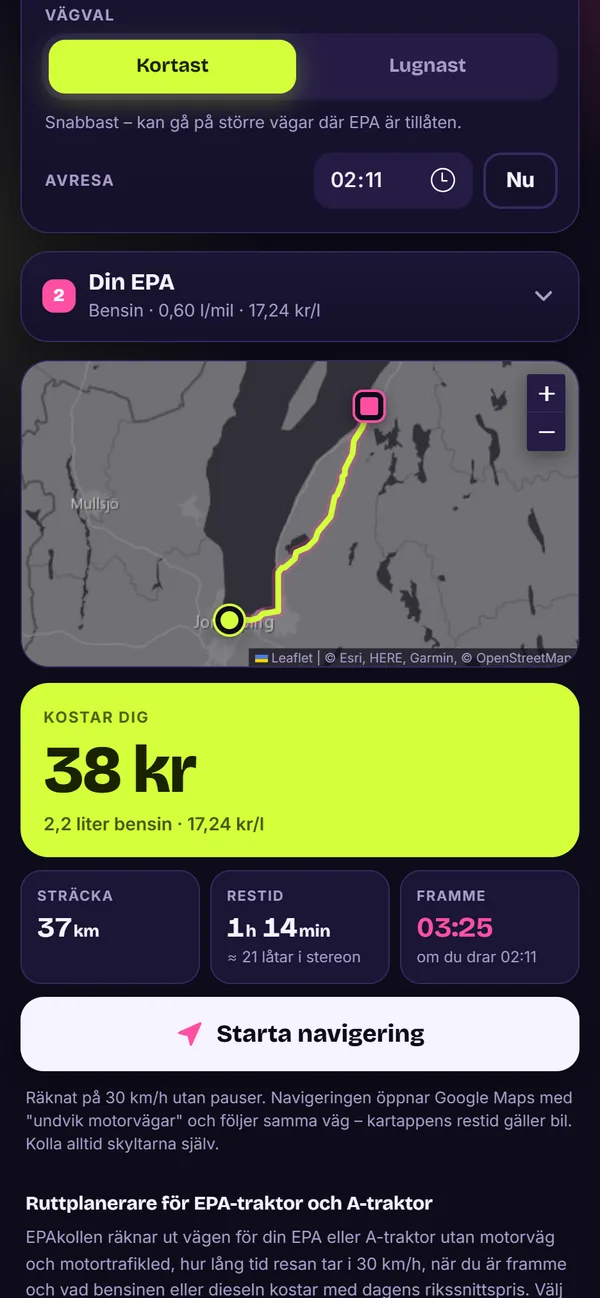
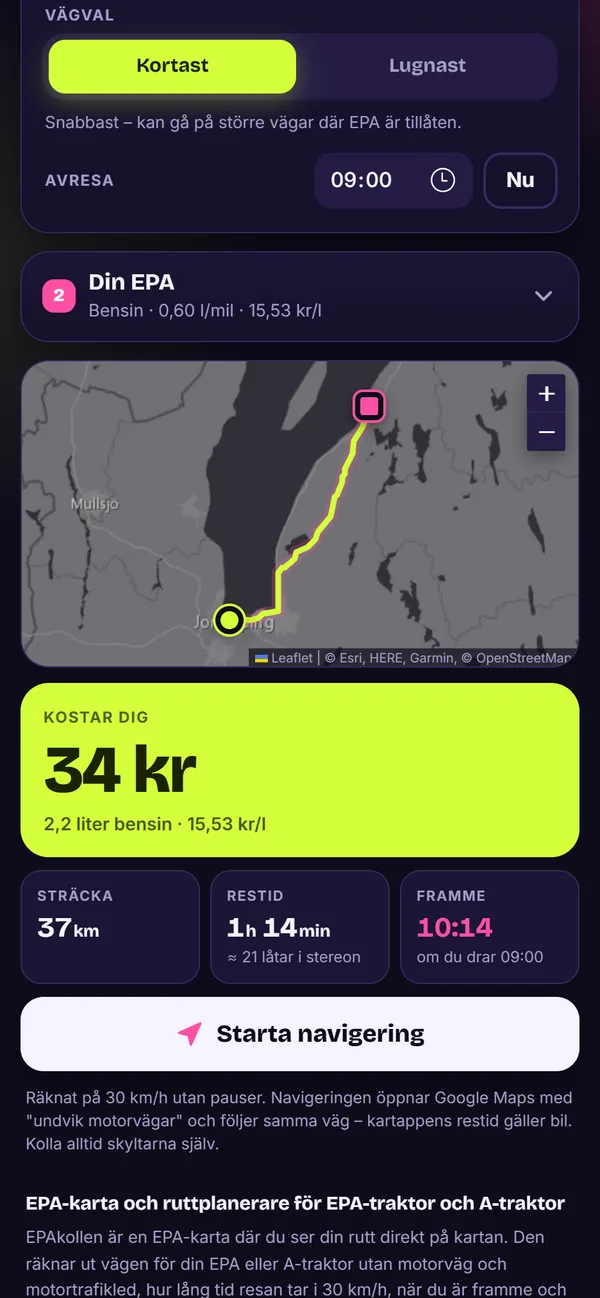
Nya skärmdumpar av alla fyra sajter och ny delningsbild, skript för att återskapa bilderna

diff --git a/public/index.html b/public/index.html
@@ -20,7 +20,7 @@
 <meta property="og:url" content="https://junestaden.se/">
 <meta property="og:title" content="Junestaden – webbverktyg för bygg och vardag">
 <meta property="og:description" content="Nordrange, Formelkollen, Mängdkollen och EPAkollen – gratis webbverktyg för elbilsresor, VVS-formler, materialåtgång och EPA-resor. Utan inloggning, i mobilen och på datorn.">
-<meta property="og:image" content="https://junestaden.se/img/og.jpg?v=8">
+<meta property="og:image" content="https://junestaden.se/img/og.jpg?v=9">
 <meta property="og:image:width" content="1200">
 <meta property="og:image:height" content="630">
 <meta name="twitter:card" content="summary_large_image">

diff --git a/design/skarmdumpar.py b/design/skarmdumpar.py
@@ -1,0 +1,196 @@
+"""Återskapar startsidans telefonbilder (public/img/*.webp) och delningsbilderna (og.jpg, og-om.jpg).
+
+Körning (från mappen Junestaden):
+    python design/skarmdumpar.py nordrange            en bild
+    python design/skarmdumpar.py alla                 alla fyra telefonbilder + båda delningsbilderna
+    python design/skarmdumpar.py og og-om             bara delningsbilderna
+    python design/skarmdumpar.py epa --skriv          skriv direkt till public/img/ (annars till design/_ut/)
+
+Krav: Python 3.10+, `pip install playwright pillow`, och Microsoft Edge installerat
+(Playwright startas med channel="msedge", så ingen separat webbläsare behöver hämtas).
+
+Skripten går mot de LIVE-sajterna (https://nordrange.se, epa.junestaden.se, bygg.junestaden.se,
+vvs.junestaden.se), så internet krävs. Delningsbilderna ritas från design/og.html och design/og-om.html,
+som i sin tur läser bilderna i public/img/. Kör därför först telefonbilderna och sedan delningsbilderna.
+
+Bildformat (se INSTRUKTIONER.md): telefonbilder 600 x 1298 WebP (kvalitet 82), delningsbilder 1200 x 630 JPG (kvalitet 92).
+Bara övre ~65 % av varje telefonbild syns på startsidans kort, så det viktiga ska ligga högt upp.
+Höj ?v= på og:image i public/index.html respektive public/om.html när en delningsbild byts.
+"""
+import asyncio
+import os
+import sys
+from pathlib import Path
+
+from PIL import Image
+from playwright.async_api import async_playwright
+
+ROOT = Path(__file__).resolve().parent.parent
+UT_TEST = ROOT / "design" / "_ut"
+IMG = ROOT / "public" / "img"
+# Döljer "Installera som app"-rutor så att de inte hamnar på bilderna
+HIDE = "[class*=install],[id*=install],.toast,.sheet{display:none!important}"
+W, H = 600, 1298  # telefonbildens slutstorlek (förhållande 390 x 844)
+
+
+async def gå_till(sida, url, försök=8):
+    """Går till en adress. Ibland ger namnuppslag ett tillfälligt fel (Portmaster), så prova några gånger."""
+    for _ in range(försök):
+        try:
+            await sida.goto(url, wait_until="networkidle", timeout=30000)
+            return
+        except Exception:
+            await asyncio.sleep(2)
+    raise SystemExit("Kunde inte nå " + url)
+
+
+async def ny_telefon(webbläsare, bredd, höjd):
+    ctx = await webbläsare.new_context(
+        viewport={"width": bredd, "height": höjd}, device_scale_factor=2, is_mobile=True,
+        has_touch=True, locale="sv-SE", color_scheme="dark")
+    return ctx, await ctx.new_page()
+
+
+async def välj_första_förslag(sida, fält, text):
+    """Skriver i ett platsfält (Photon) och väljer första träffen i just det fältets lista."""
+    await sida.fill("#" + fält, text)
+    await sida.wait_for_timeout(1800)
+    lista = await sida.get_attribute("#" + fält, "aria-controls")
+    val = sida.locator("#" + lista + " li").first
+    await val.wait_for(timeout=15000)
+    await val.dispatch_event("pointerdown")
+    await sida.wait_for_timeout(700)
+
+
+def spara_telefonbild(png_väg, mål):
+    im = Image.open(png_väg).convert("RGB").resize((W, H), Image.LANCZOS)
+    im.save(mål, "WEBP", quality=82, method=6)
+    print("  sparad", mål, mål.stat().st_size // 1024, "kB")
+
+
+async def nordrange(p, tmp):
+    """Rutten Jönköping -> Trondheim, 80 % batteri: karta med tre numrerade laddstopp och stopplistan under."""
+    b = await p.chromium.launch(channel="msedge")
+    ctx, sida = await ny_telefon(b, 390, 844)
+    await gå_till(sida, "https://nordrange.se/")
+    await sida.add_style_tag(content=HIDE)
+    await sida.wait_for_timeout(1200)
+    await välj_första_förslag(sida, "from", "Jönköping")
+    await välj_första_förslag(sida, "to", "Trondheim")
+    await sida.keyboard.press("Escape")          # stänger förslagslistan som annars täcker knappen
+    await sida.wait_for_timeout(300)
+    await sida.locator("#go").dispatch_event("click")
+    await sida.wait_for_timeout(14000)           # rutt + väder + laddstopp tar tid
+    # Kartans överkant 72 px från toppen (under sidhuvudet)
+    await sida.evaluate("""() => { const c=document.querySelector('canvas'); const m=c.closest('[class*=maplibre],[class*=mapbox],[id*=map]')||c.parentElement.parentElement;
+        window.scrollTo(0, window.scrollY + m.getBoundingClientRect().top - 72); }""")
+    await sida.wait_for_timeout(800)
+    # Dra kartan 28 px uppåt så att startpunkten (Jönköping) syns ovanför kartans källhänvisning
+    box = await sida.evaluate("(() => { const r=document.querySelector('canvas').getBoundingClientRect(); return [r.x, r.y, r.width, r.height]; })()")
+    x, y = box[0] + box[2] * 0.3, box[1] + box[3] * 0.55
+    await sida.mouse.move(x, y); await sida.mouse.down(); await sida.mouse.move(x, y - 28, steps=12); await sida.mouse.up()
+    await sida.wait_for_timeout(2000)
+    await sida.screenshot(path=str(tmp / "nordrange.png"))
+    await b.close()
+
+
+async def epa(p, tmp):
+    """Jönköping -> Gränna. Bredare fönster (468 x 1013) så att kartan och kostnadskortet får plats."""
+    b = await p.chromium.launch(channel="msedge")
+    ctx, sida = await ny_telefon(b, 468, 1013)
+    await gå_till(sida, "https://epa.junestaden.se/?shot=1")
+    await sida.add_style_tag(content=HIDE)
+    await sida.wait_for_timeout(1500)
+    await välj_första_förslag(sida, "from", "Jönköping")
+    await välj_första_förslag(sida, "to", "Gränna")
+    await sida.keyboard.press("Escape")
+    await sida.wait_for_timeout(8000)
+    # Avresa 09:00 så att "Framme" blir en dagtid och inte "imorgon" när bilden tas sent på kvällen
+    await sida.fill("#depart", "09:00")
+    await sida.evaluate("document.activeElement && document.activeElement.blur()")   # släpp fokus så att fältet inte ser redigerat ut
+    await sida.wait_for_timeout(600)
+    await sida.evaluate("window.scrollTo(0, 285)")   # Vägval-knapparna överst, kostnadskortet längre ned
+    await sida.wait_for_timeout(900)
+    await sida.screenshot(path=str(tmp / "epa.png"))
+    await b.close()
+
+
+async def mangd(p, tmp):
+    """25 m2 weberfloor 110 fine, 10 mm. Bredare fönster (520 x 1126) så att den gula resultatrutan syns."""
+    b = await p.chromium.launch(channel="msedge")
+    ctx, sida = await ny_telefon(b, 520, 1126)
+    await gå_till(sida, "https://bygg.junestaden.se/?shot=1")
+    await sida.add_style_tag(content=HIDE)
+    await sida.wait_for_timeout(2000)
+    märken = await sida.evaluate("[...document.querySelector('#brandSelect').options].map(o=>o.text)")
+    await sida.select_option("#brandSelect", label=[m for m in märken if "weber" in m.lower()][0])
+    await sida.wait_for_timeout(500)
+    await sida.select_option("#usageSelect", index=0)
+    await sida.wait_for_timeout(400)
+    await sida.fill("#area", "25")
+    await sida.fill("#thickness", "10")
+    await sida.wait_for_timeout(1500)
+    await sida.evaluate("(off) => { const r=document.querySelector('#area').getBoundingClientRect(); window.scrollTo(0, window.scrollY + r.top - off); }", 95)
+    await sida.wait_for_timeout(1500)
+    await sida.screenshot(path=str(tmp / "mangdkollen.png"))
+    await b.close()
+
+
+async def vvs(p, tmp):
+    """Formelkollens startsida i mobilen, överst."""
+    b = await p.chromium.launch(channel="msedge")
+    ctx, sida = await ny_telefon(b, 390, 844)
+    await gå_till(sida, "https://vvs.junestaden.se/?shot=1")
+    await sida.add_style_tag(content=HIDE)
+    await sida.wait_for_timeout(2500)
+    await sida.screenshot(path=str(tmp / "vvs.png"))
+    await b.close()
+
+
+async def delningsbild(p, mall, mål):
+    """Ritar en mall (design/og*.html) i dubbel upplösning och skalar ned till 1200 x 630."""
+    b = await p.chromium.launch(channel="msedge")
+    sida = await b.new_page(viewport={"width": 1200, "height": 630}, device_scale_factor=2)
+    await sida.goto((ROOT / "design" / mall).as_uri(), wait_until="networkidle")
+    await sida.wait_for_timeout(1200)    # typsnitten (Google Fonts) ska hinna laddas
+    tmp = os.environ.get("TEMP", ".") + "/ogtmp.png"
+    await sida.screenshot(path=tmp)
+    await b.close()
+    Image.open(tmp).convert("RGB").resize((1200, 630), Image.LANCZOS).save(mål, quality=92, optimize=True, subsampling=0)
+    print("  sparad", mål, mål.stat().st_size // 1024, "kB")
+
+
+TELEFON = {"nordrange": (nordrange, "nordrange.png", "nordrange.webp"),
+           "epa": (epa, "epa.png", "epa.webp"),
+           "mangd": (mangd, "mangdkollen.png", "mangdkollen.webp"),
+           "vvs": (vvs, "vvs.png", "vvs.webp")}
+DELNING = {"og": ("og.html", "og.jpg"), "og-om": ("og-om.html", "og-om.jpg")}
+
+
+async def main(argv):
+    skriv = "--skriv" in argv
+    mål = [a for a in argv if not a.startswith("--")] or ["alla"]
+    if "alla" in mål:
+        mål = list(TELEFON) + list(DELNING)
+    ut = IMG if skriv else UT_TEST
+    ut.mkdir(parents=True, exist_ok=True)
+    tmp = Path(os.environ.get("TEMP", ".")) / "skarmdumpar"
+    tmp.mkdir(parents=True, exist_ok=True)
+    async with async_playwright() as p:
+        for m in mål:
+            print(m)
+            if m in TELEFON:
+                fn, png, webp = TELEFON[m]
+                await fn(p, tmp)
+                spara_telefonbild(tmp / png, ut / webp)
+            elif m in DELNING:
+                mall, fil = DELNING[m]
+                await delningsbild(p, mall, ut / fil)
+            else:
+                raise SystemExit("Okänt mål: " + m + ". Välj bland: " + ", ".join(list(TELEFON) + list(DELNING)) + ", alla")
+    if not skriv:
+        print("Klart. Bilderna ligger i", ut, "(lägg dem i public/img/ för att använda dem, eller kör med --skriv).")
+
+
+if __name__ == "__main__":
+    asyncio.run(main(sys.argv[1:]))
